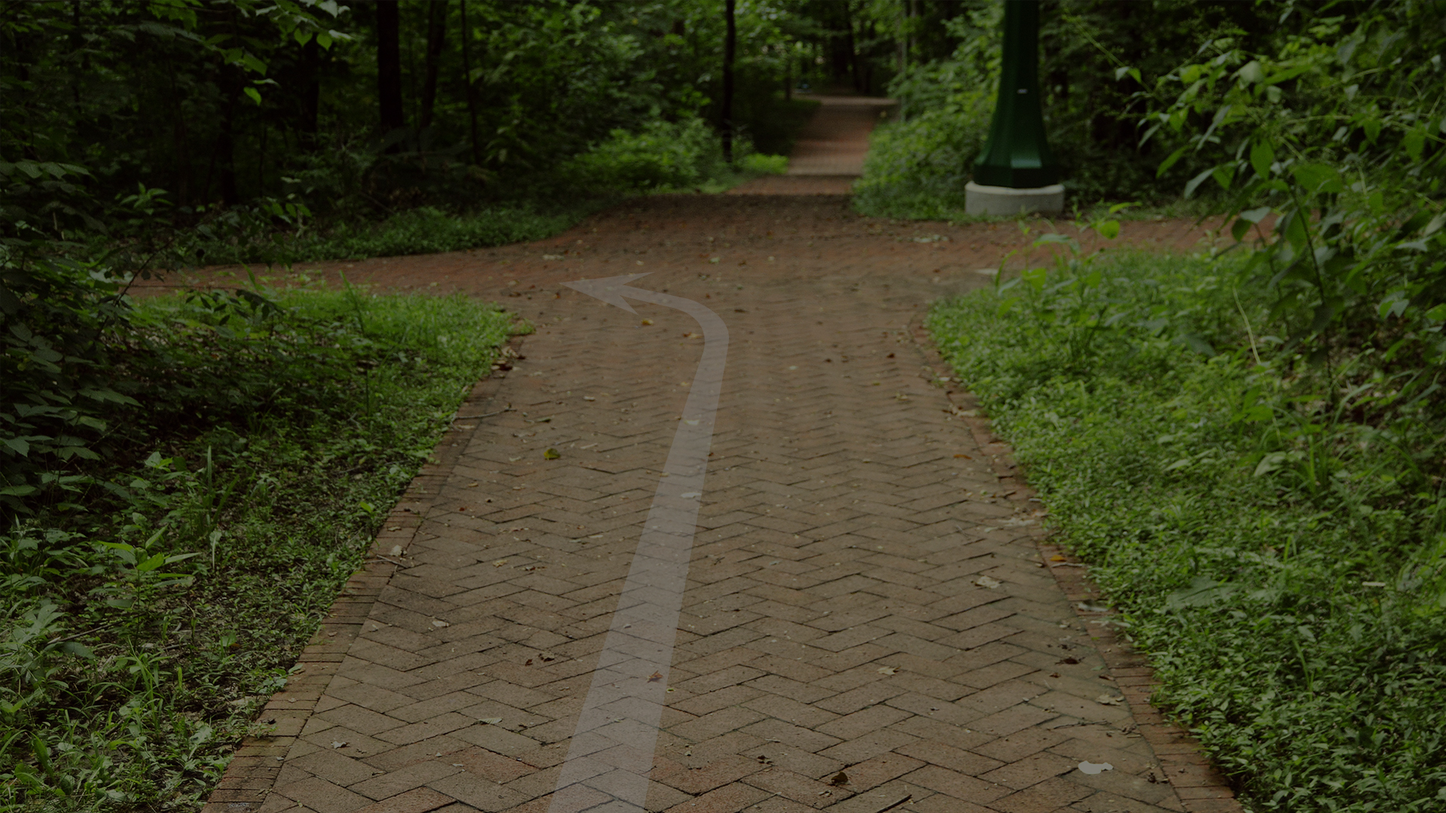
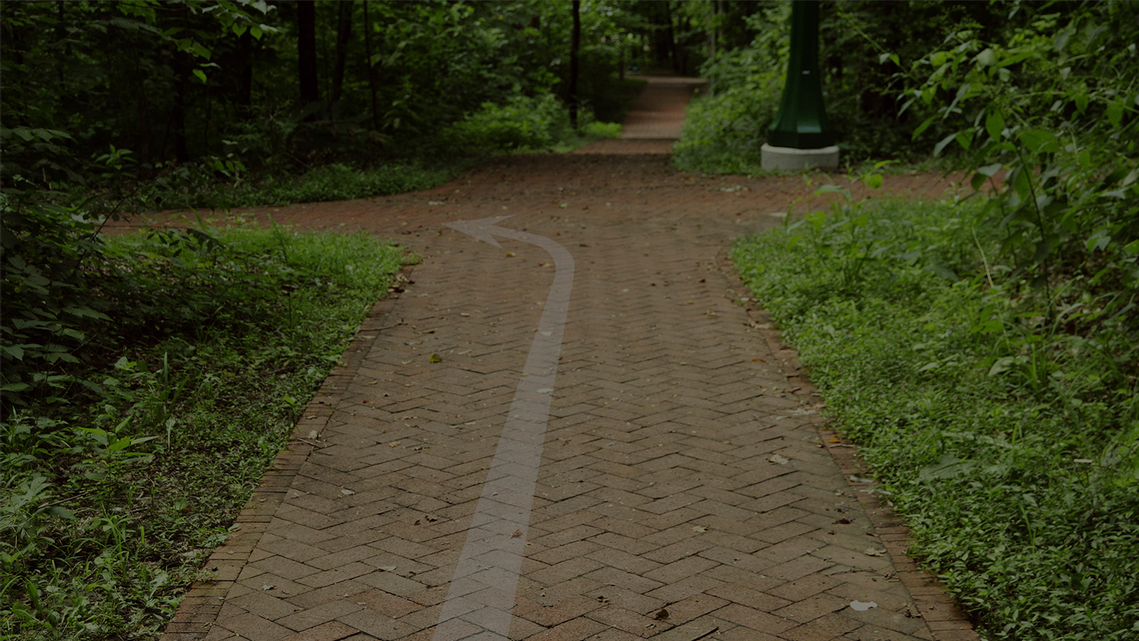
NEWVER: images optimization

diff --git a/newver/style.css b/newver/style.css
@@ -452,7 +452,7 @@ nav .dropdown-item.dd-active {
 }
 
 .project #main.proj-cvp .proj-header {
-    background-image: url(image/cvp_banner.png);
+    background-image: url(image/cvp_banner.jpg);
 }
 
 .project #main.proj-gogreen .proj-header {
